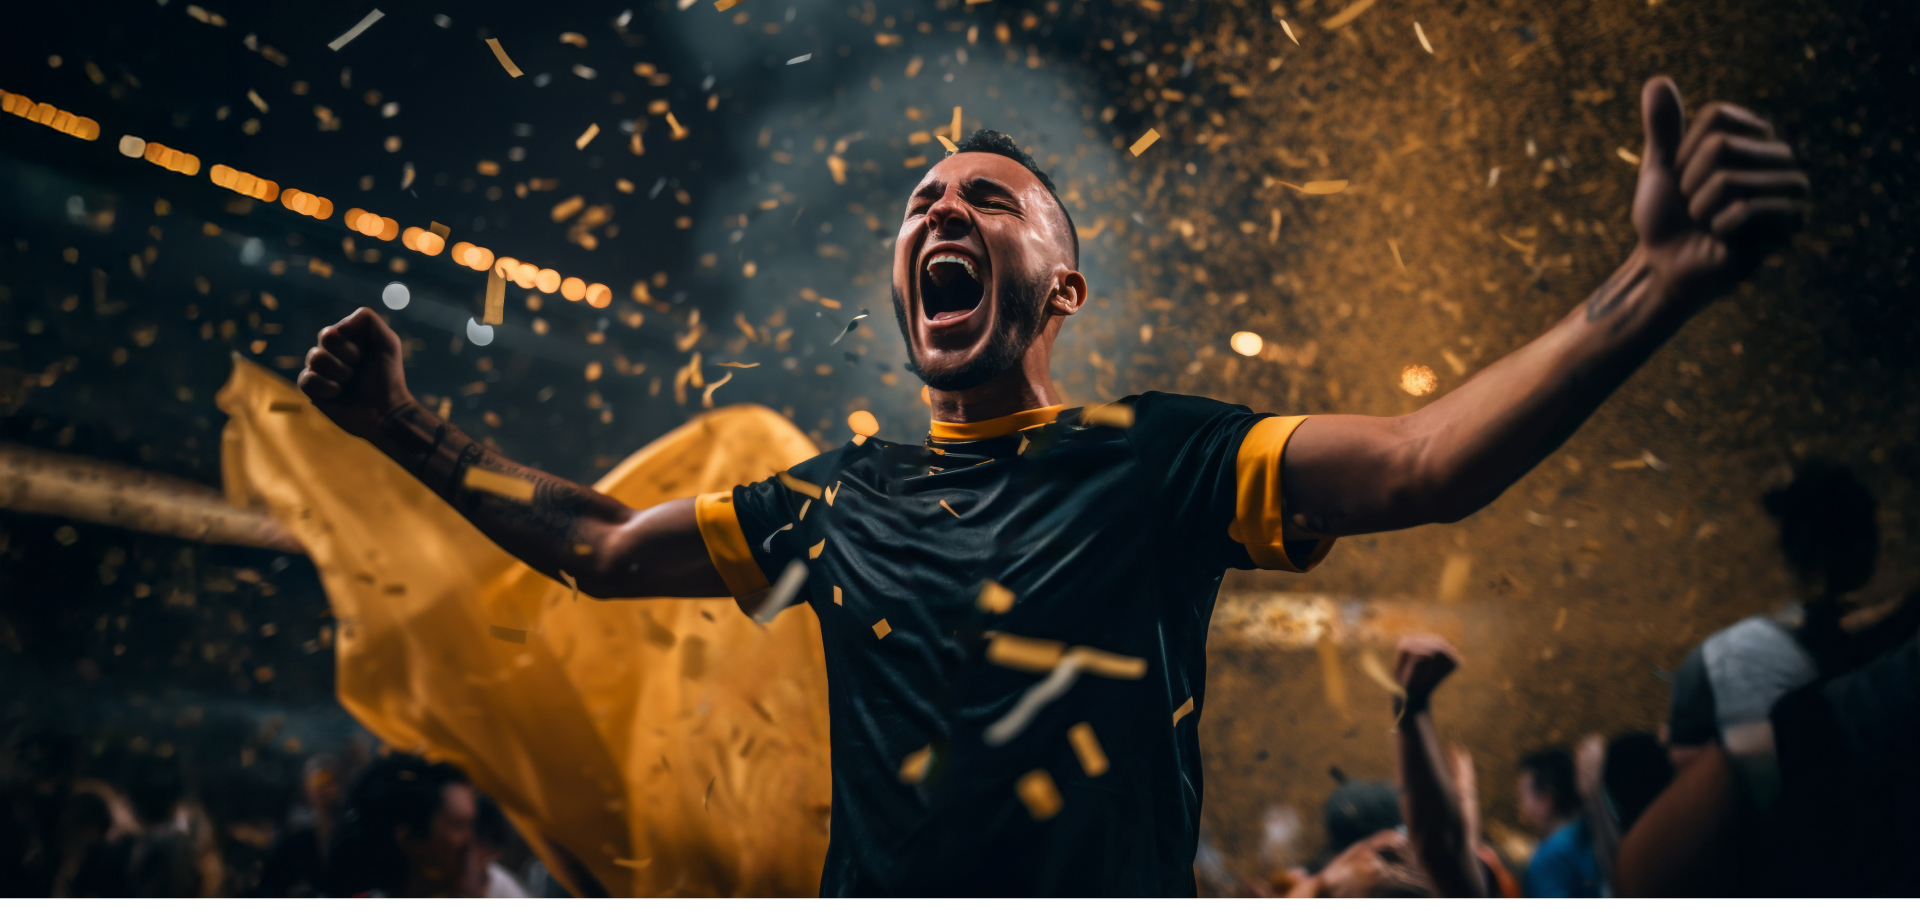
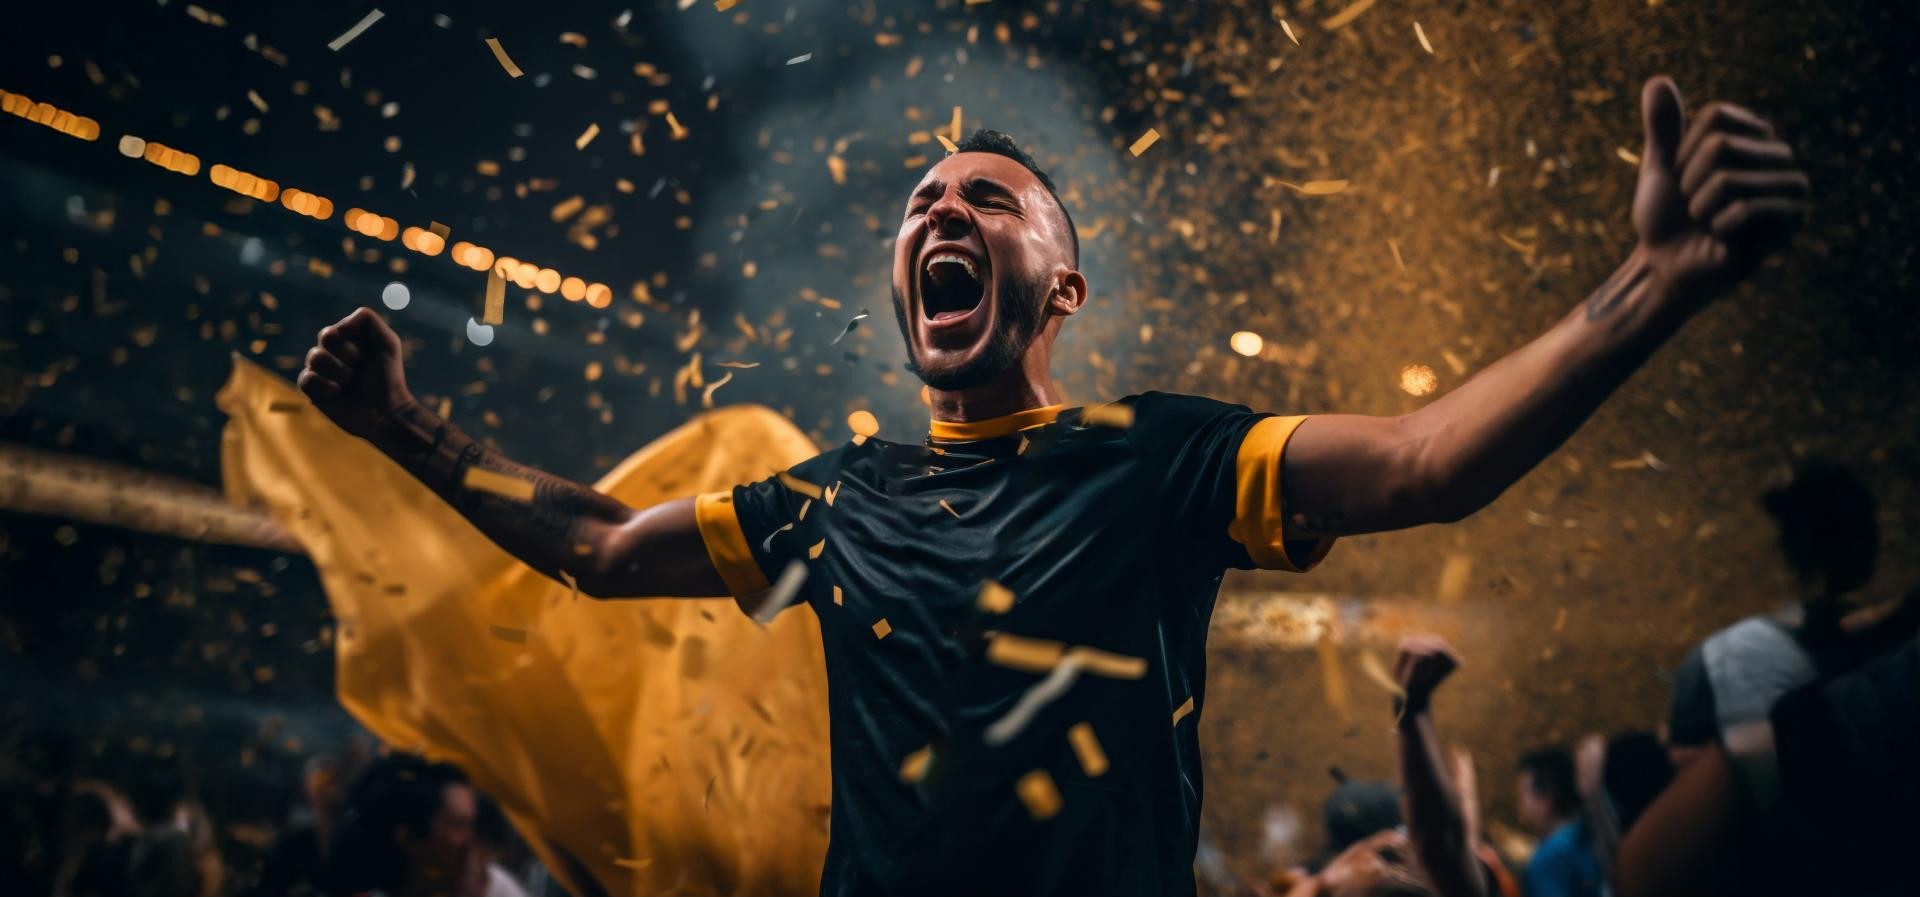
Bug fixes

diff --git a/season-in-spotlight.html b/season-in-spotlight.html
@@ -94,7 +94,7 @@
         <div class="row justify-content-center march-may">
             <div class="col-6 d-lg-block d-none march-may-left p-0"></div>
             <div class="col-12 col-lg-6 march-may-right p-0">
-                <img alt="Crush goals" loading="lazy" src="./images/season-in-spotlight/march-may.jpg" />
+                <div class="march-may-img"></div>
             </div>
             <div class="march-may-text p-0">
                 <div class="march-may-text-block mx-common">
@@ -116,7 +116,7 @@
             <div class="col-lg-4 col-12">
               <div class="description">
                 <h3>Weekend Pop Up Events</h3>
-                <p>Boost points withPop Up Events events.</p>
+                <p>Boost points with Pop Up Events events.</p>
               </div>
             </div>
             <div class="col-lg-4 col-12">
@@ -127,14 +127,14 @@
             </div>
         </div>
     </div>
-     <div class="container-fluid d-none d-md-block">
+     <div class="container-fluid">
         <div class="row justify-content-center align-items-stretch">
-            <div class="col-5 impact">
+            <div class="col-5 impact d-none d-md-block">
                 <div class="text">
                     <h2>Boost your impact. <br/> Score big.<br/> Repeat.</h2>
                 </div>
             </div>
-            <div class="col-7">
+            <div class="col-7 d-none d-md-block">
                 <div class="impact-content h-100">
                 <div class="d-flex align-items-center justify-content-start border-b mb-3 pb-3">
                     <div class="w-ls">
@@ -169,6 +169,46 @@
                     </div>
                 </div>
             </div>
+            </div>
+            <div class="col-12 d-block d-md-none impact">
+                <div style="z-index: 2;">
+                    <h2>Boost your impact. <br/> Score big.<br/> Repeat.</h2>
+
+                     <div class="impact-content h-100">
+                <div class="impact-content-wrap border-b mb-3 pb-3">
+                    <div class="w-ls">
+                       <h3>Jumpstart Accelerator:</h3> 
+                    </div>
+                    <div class="w-rs">
+                        <p>+3 points per order June 5-7</p>
+                    </div>
+                </div>
+                <div class="impact-content-wrap border-b mb-3 pb-3">
+                     <div class="w-ls">
+                       <h3>The Play <br/> Booster:</h3> 
+                    </div>
+                    <div class="w-rs">
+                        <p>+15 points weekly for hitting activity targets in June</p>
+                    </div>
+                </div>
+                <div class="impact-content-wrap border-b mb-3 pb-3">
+                     <div class="w-ls">
+                       <h3>Recruiting Booster:</h3> 
+                    </div>
+                    <div class="w-rs">
+                        <p>Nike gift cards for top field recruiter each week in June</p>
+                    </div>
+                </div>
+                <div class="impact-content-wrap">
+                     <div class="w-ls">
+                       <h3>4th of July Booster:</h3> 
+                    </div>
+                    <div class="w-rs">
+                        <p>Limited edition Swag for top sellers over the holiday weekend</p>
+                    </div>
+                </div>
+            </div>
+                </div>
             </div>
         </div>
     </div>

diff --git a/css/season-in-spotlight.css b/css/season-in-spotlight.css
@@ -44,14 +44,21 @@ marquee {
     max-height: 580px;
     background-color: #000;
     position: relative;
+    min-height: 400px;
 }
 .march-may-right {
     overflow: hidden;
 }
-.march-may-right img {
+.march-may-img {
     max-width: 100%;
     scale: 1;
     transition: all 500ms ease-in-out;
+    background-image: url(../images/season-in-spotlight/march-may.jpg);
+    width: 100%;
+    height: 100%;
+    background-position: center right;
+    background-size: contain;
+    background-repeat: no-repeat;
 }
 .march-may-text {
     position: absolute;
@@ -82,7 +89,7 @@ marquee {
     margin-top: 20px;
     transition: font-size 500ms ease-in-out;
 }
-.march-may:hover .march-may-right img {
+.march-may:hover .march-may-img {
     scale: 1.1;
     transition: all 500ms ease-in-out;
 }
@@ -120,10 +127,10 @@ marquee {
    position: absolute;
    width: 60%;
     bottom: 53px;
-    left: 175px;
+    left: 30%;
     z-index: 2;
 }
-.impact .text h2{
+.impact h2{
      color: #FCCA46;
     font-family: "ExtraBold";
     font-size: 50px;
@@ -134,7 +141,12 @@ marquee {
 .impact-content{
     padding: 110px 80px 110px 80px;
 }
-
+.impact-content-wrap{
+    display: flex;
+    align-items: center;
+    justify-content: flex-start;
+    flex-flow: row;
+}
 .w-ls{
     width: 320px;
 }
@@ -144,6 +156,7 @@ marquee {
 .border-b{
     border-bottom: 1px solid rgba(255, 255, 255, 0.3)
 }
+
 .impact-content h3{
     color: #30A46E;
     font-family: "ExtraBold";
@@ -249,7 +262,14 @@ marquee {
         left: auto;
         top: 0;
     }
+    .march-may{
+        min-height: 300px;
+    }
     /* march may */
+    .march-may-img{
+        background-size: cover;
+        background-position: center;
+    }
     .march-may-text .month {
         font-size: 22px;
         line-height: 94%;
@@ -298,6 +318,53 @@ marquee {
     .gifts .gift-details span {
         font-size: 22px;
         line-height: 110%;
+    }
+    .impact{
+        background-position: center ;
+        padding-top: 20px;
+        position: relative;
+    }
+    .impact::before{
+        content: '';
+        position: absolute;
+        top:0;
+        left:0;
+        background-color: #000;
+        opacity: 0.5;
+        z-index: 1;
+        width: 100%;
+        height: 100%;
+    }
+
+    .impact h2{
+        font-size: 43px;
+         z-index: 2;
+          position: relative;
+    }
+    .impact-content{
+        padding: 20px 0; 
+         z-index: 2;
+          position: relative;
+    }
+    .w-ls{
+        width: 100%;
+    }
+    .w-rs{
+        width: 100%;
+    }
+    .impact-content h3{
+         font-size: 25px;
+        line-height: 88%;
+    }
+    .impact-content p{
+         font-size: 18px;
+        line-height: 22px;
+    }
+    .impact-content-wrap{
+        flex-flow: column;
+    }
+    .impact .text{
+        left: 17%
     }
 }
 

diff --git a/the-forge.html b/the-forge.html
@@ -63,7 +63,7 @@
     <section class="top-slider">
         <div class="slider-images">
             <div class="overlay"></div>
-            <div class="slider-logo mx-common d-flex align-items-center">
+            <div class="slider-logo mx-common">
                 <img alt="The forge" class="slider-img-2" src="./images/the-forge/forge-img.svg" />
                 <h3 class="change-text">Master Your Craft in 90 Days!</h3>
             </div>
@@ -175,7 +175,11 @@
             </div>
             <div class="d2d-hover-mobile">
                 <img alt="The Forge" class="d2d-end" src="./images/the-forge/forge-img.svg" /> 
-                <img alt="Certificate" src="./images/the-forge/d2d-hover-mobile.avif" />
+
+                <img alt="Certificate" src="./images/the-forge/certification-1.png" />
+                <img alt="Certificate" width="180px" src="./images/the-forge/certification-2.png" />
+                <img alt="Certificate" src="./images/the-forge/certification-3.png" />
+
             </div>
         </div>
     </div>

diff --git a/css/the-forge.css b/css/the-forge.css
@@ -141,6 +141,11 @@ marquee {
 .slider-img-2{
     max-width: 180px;
 }
+ .top-slider .slider-logo{
+    display: flex;
+    align-items: center;
+ }
+
 /* applies to small devices (landscape phones, less than 768px) */
 /* applies to medium devices (tablets, less than 992px) */ 
 @media(max-width: 600px){
@@ -160,12 +165,15 @@ marquee {
         margin-bottom: 20px;
     }
     .top-slider .slider-logo {
-        left: -45px;
+        left:0;
+        align-items: start;
+        width: 100%;
+        margin: 30px 20px;
        
     }
     .top-slider .slider-logo h3 {
         font-size: 34px;
-        width: 350px;
+        width: 100%
     }
     .new-hires h3 {
         font-size: 24px;

diff --git a/epic-seasons.html b/epic-seasons.html
@@ -321,7 +321,7 @@
                             <div class="count">02</div>
                             <div>
                                 <h6>Boosters</h6>
-                                <p>Tangible rewards (cash, swag, trips) for winning competitions.Special, short term events where you can earn points, swag, or even cash money.</p>
+                                <p>Tangible rewards (cash, swag, trips) for winning competitions. Special, short term events where you can earn points, swag, or even cash money.</p>
                             </div>
                         </div>
                     </div>
